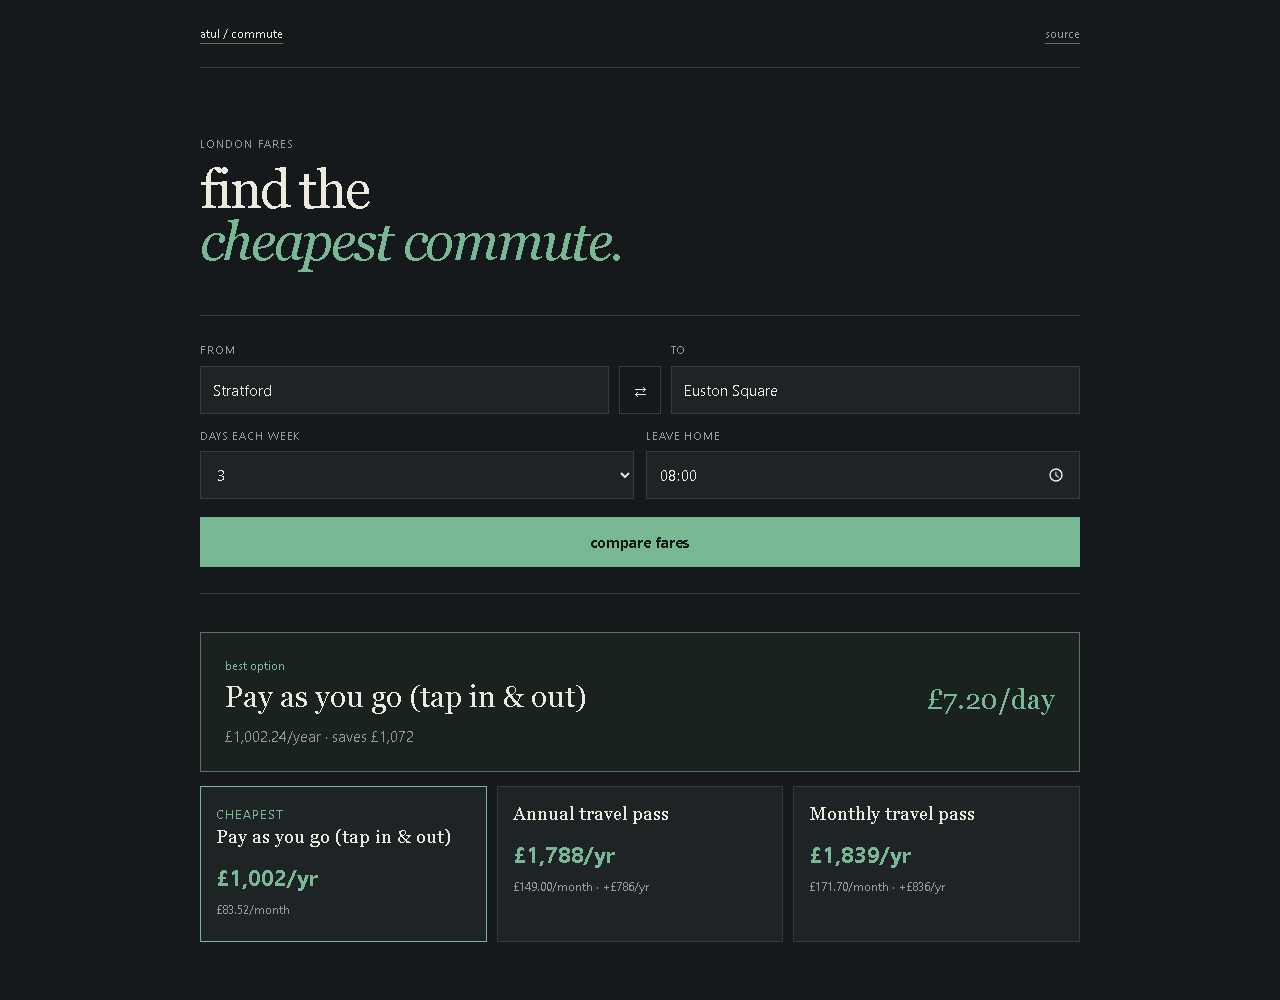
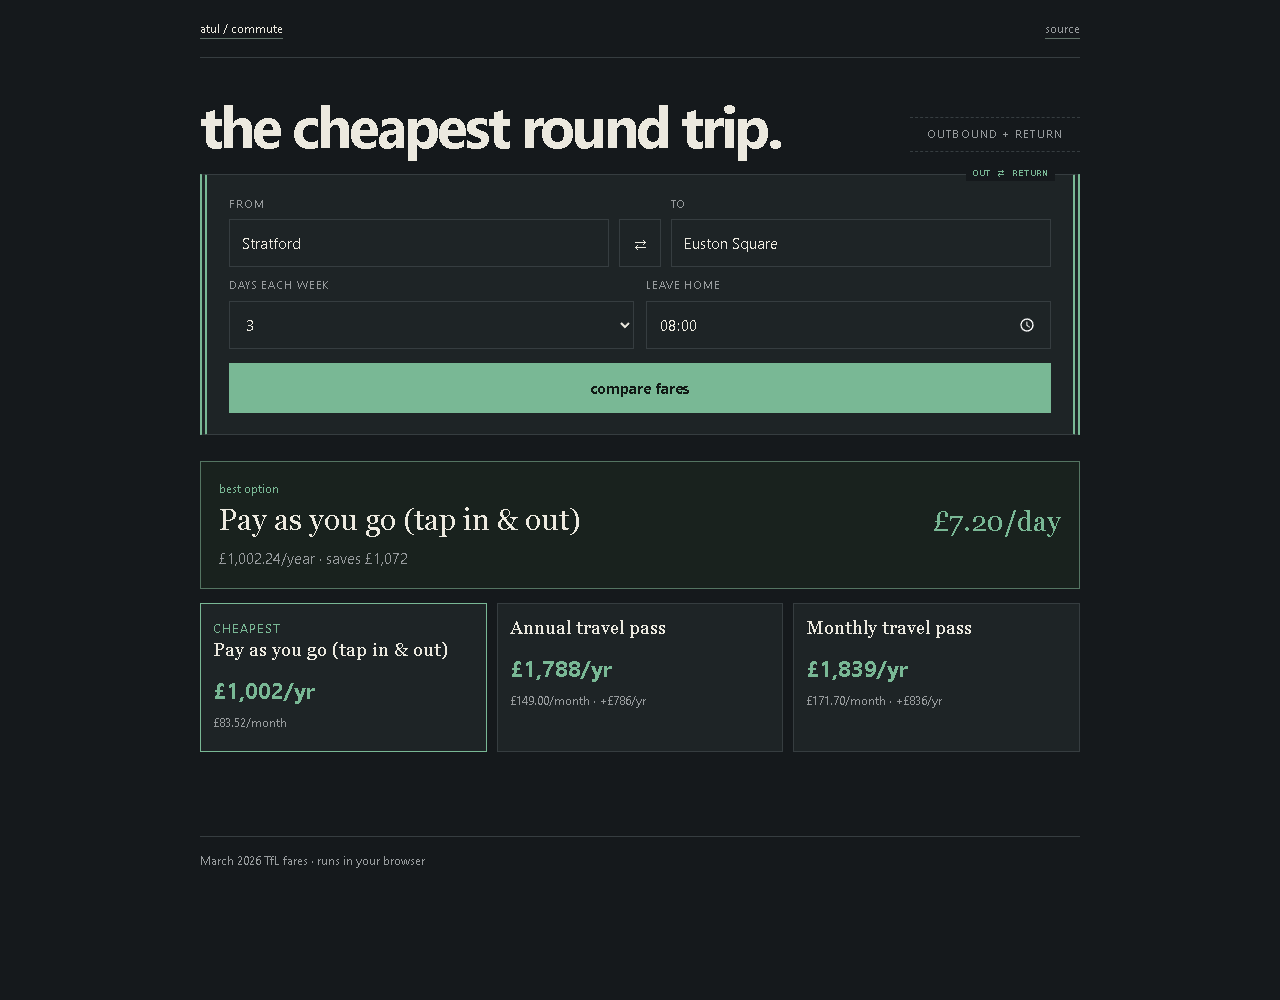
Make the round trip optimiser read like a fare ticket

diff --git a/examples/portfolio/index.html b/examples/portfolio/index.html
@@ -5,10 +5,10 @@
 </style><style>
 #jbar,#goHint{display:none!important}.reco{display:grid;grid-template-columns:1fr auto;align-items:end;gap:6px 24px}.reco .winner-badge{grid-column:1/-1}.reco h2{margin:0;font:30px/1.05 Georgia,serif;font-weight:400}.reco .price{font:28px/1 Georgia,serif}.reco p{grid-column:1/-1;margin:6px 0 0;color:var(--muted)}.ocard small{color:var(--green);text-transform:uppercase;letter-spacing:.08em}.ocard h3{font:19px/1.15 Georgia,serif;font-weight:400}.ocard .price{margin-top:14px}.ocard p:last-child{color:var(--muted);font-size:12px}.acd:not(.open){display:none}
 @media(max-width:650px){.reco{grid-template-columns:1fr}.reco .price{margin-top:8px}}
-</style></head><body>
+</style><link rel="stylesheet" href="identity.css"></head><body>
 <header class="top"><a href="https://lolstar123.github.io/just-a-little-further/">atul / commute</a><nav><a href="https://github.com/LolStar123/london-commute-calculator">source</a></nav></header>
 <main>
-<section class="hero"><p>london fares</p><h1>find the<br><em>cheapest commute.</em></h1></section>
+<section class="hero"><p>outbound + return</p><h1>the cheapest round trip.</h1></section>
 <section class="planner">
 <div class="srow">
 <div class="fg"><label for="fromStation">from</label><input class="si" id="fromStation" autocomplete="off"><div class="acd" id="fromDD"></div></div>

diff --git a/examples/portfolio/identity.css b/examples/portfolio/identity.css
@@ -1,0 +1,2 @@
+/* return ticket: two endpoints feeding one fare decision */
+body{font-family:"Segoe UI",Arial,sans-serif}.top{height:58px}main{padding:40px 0 48px}.hero{display:grid;grid-template-columns:1fr 170px;align-items:end;margin-bottom:22px}.hero p{grid-column:2;grid-row:1;margin:0;padding:8px 0;border-block:1px dashed var(--line);text-align:center}.hero h1{grid-column:1;grid-row:1;margin:0;font:750 clamp(40px,6vw,58px)/.93 "Segoe UI",Arial,sans-serif;letter-spacing:-.055em}.planner{position:relative;padding:21px 22px;border:1px solid var(--line);border-inline:7px double var(--green);background:var(--quiet)}.planner:before{content:"OUT  ⇄  RETURN";position:absolute;top:-9px;right:18px;padding:0 7px;background:var(--bg);color:var(--green);font:10px/1.5 ui-monospace,Consolas,monospace;letter-spacing:.1em}.compact{margin-top:10px}.go-btn{margin-top:14px}.results{margin-top:26px}.reco{padding:18px}.ocard{padding:12px}footer{margin-top:36px;padding-block:15px}@media(max-width:650px){main{padding:32px 0 40px}.hero{display:block}.hero p{width:max-content;margin-bottom:9px;padding:0;border:0}.hero h1{font-size:40px}.planner{padding:18px 13px;border-inline-width:4px}.srow{grid-template-columns:1fr 36px 1fr}.si{padding-inline:8px}}

diff --git a/tools/browser_audit.py b/tools/browser_audit.py
@@ -16,6 +16,8 @@ try:
         page=browser.new_page(viewport={'width':1280,'height':1000},reduced_motion='reduce')
         errors=[];page.on('pageerror',lambda e:errors.append(str(e)))
         page.goto(os.environ.get('AUDIT_URL',f'http://127.0.0.1:{server.server_port}'),wait_until='networkidle')
+        assert 'round trip' in page.locator('.hero h1').inner_text().lower()
+        assert page.locator('#trips').input_value() == '2'
         page.wait_for_selector('#res.vis')
         assert page.locator('#fromStation').input_value()=='Stratford'
         before=page.locator('#mbarLabel').inner_text()
